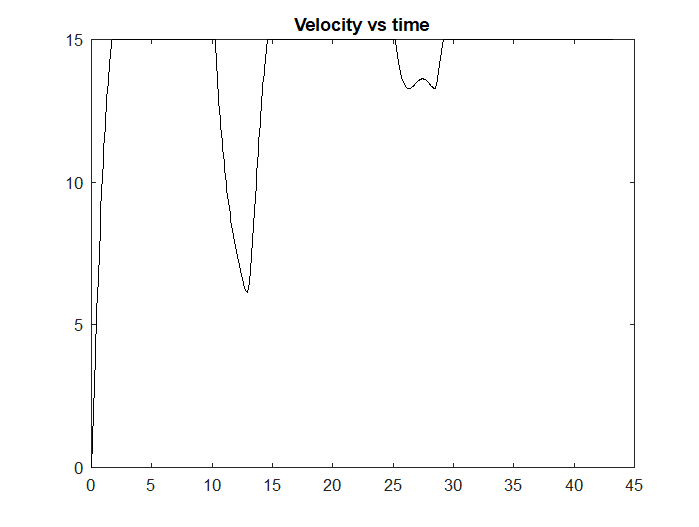
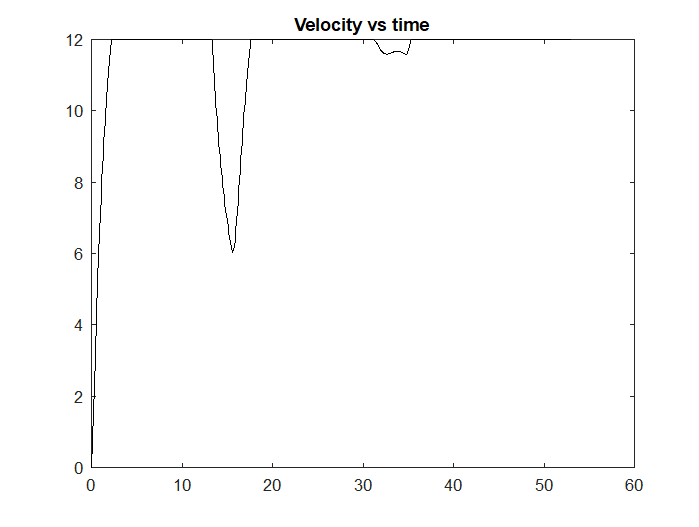
Fixed some pictures after changing Forward Acc Check to use horizontal force

diff --git a/Matlab Trajectory Generation/ForwardAccCheck.m b/Matlab Trajectory Generation/ForwardAccCheck.m
@@ -1,11 +1,11 @@
 function [vprofile] = ForwardAccCheck(vmax,veff,fc,r,dr)
-%FORWARDACCCHECK This function will run through all of the vmax values, and
-%will then go through and will accellerate the craft from a starting
-%velocity of 0 and will create an velocity profile that attempts to
-%converge to the most efficient velocity using the maximum allowed
-%horizontal force as well as staying within the constraints of the
-%previously established maximum velocity at each of the points
-%
+% FORWARDACCCHECK This function will run through all of the vmax values, and
+% will then go through and will accellerate the craft from a starting
+% velocity of 0 and will create an velocity profile that attempts to
+% converge to the most efficient velocity using the maximum allowed
+% horizontal force as well as staying within the constraints of the
+% previously established maximum velocity at each of the points
+% 
 % Input:
 %   vmax: This is an array with all of the previously established maximum
 %   velocities along the pat
@@ -23,12 +23,15 @@ function [vprofile] = ForwardAccCheck(vmax,veff,fc,r,dr)
 %   vprofile: This is the tangential velocity profile for the multicopter
 %   to take over the path
 
-vprofile = zeros(size(vmax));
+g = 9.8;%m/s^2
 
+vprofile = zeros(size(vmax));
+fMaxHoriz = fc.thrust*cos(asin(fc.mass*g/fc.thrust))
+%fMaxHoriz = fc.thrust;
 %Iterate through all of the positions
 for k = 1:length(vmax)-1
     %calculate the maximum tangential accelleration possible at this point
-    amax = (sqrt(fc.thrust^2-(fc.mass*vprofile(k)^2/r(k))^2)-fc.cd*vprofile(k)^2*fc.density*fc.refarea/2 )/fc.mass;
+    amax = (sqrt(fMaxHoriz^2-(fc.mass*vprofile(k)^2/r(k))^2)-fc.cd*vprofile(k)^2*fc.density*fc.refarea/2 )/fc.mass;
     
     vnext = sqrt(vprofile(k).^2+2.*amax.*dr);
     %Check if either of the values are greater than the speed of greatest

diff --git a/Matlab Trajectory Generation/BackAccCheck.m b/Matlab Trajectory Generation/BackAccCheck.m
@@ -1,10 +1,10 @@
 function [vmaxOut] = BackAccCheck(vmaxIn,fc,dr)
-%BACACCCHECK This function will filter the max velocity profile backwards
+% BACACCCHECK This function will filter the max velocity profile backwards
 %   The goal of this function is to ensure that the vmax velocity profile
 %   for the multicopter never has a negative slope(acceleration), greater
 %   than air resistance is able to provide at that speed such that the
 %   multicopter will never be have to reverse thrust
-%
+% 
 % Input:
 %   vmaxIn:This is an array of the max allowable velocity values such that
 %   the mutlicopter has the capability to corner.
@@ -16,7 +16,7 @@ function [vmaxOut] = BackAccCheck(vmaxIn,fc,dr)
 %       -density: Density of air in kg/m^3
 %       -cd: Coefficient of drag for copter
 %       -refarea: Drag reference area
-%
+% 
 % Output
 %   vmaxOut:Array in the same form of vmaxIn after the filter has been run
 

diff --git a/Matlab Trajectory Generation/GetMaxVelocity.m b/Matlab Trajectory Generation/GetMaxVelocity.m
@@ -1,8 +1,8 @@
 function [vmax] = GetMaxVelocity(radCurvature,fc)
-%GETMAXVELOCITY This function will calculate the maximum velocity that the
-%UAV can fly such that the maximum force is still sufficient to provide the
+% GETMAXVELOCITY This function will calculate the maximum velocity that the
+% UAV can fly such that the maximum force is still sufficient to provide the
 % centripetal force required as a function of the curvature
-%
+% 
 % Input:
 %   radCurvature: array with the radius of curvature at each of the
 %       points parametrized by arc length
@@ -12,6 +12,10 @@ function [vmax] = GetMaxVelocity(radCurvature,fc)
 %       -density: Density of air in kg/m^3
 %       -cd: Coefficient of drag for copter
 %       -refarea: Drag reference area
+%
+% Output
+%   vmax: This is an array of the maximum velocities the drone can fly at
+%   based on turning at each point
 
 %Parameters
 g = 9.8;%m/s^2

diff --git a/Matlab Trajectory Generation/GetRadCurvature.m b/Matlab Trajectory Generation/GetRadCurvature.m
@@ -1,12 +1,12 @@
 function [radCurvature] = GetRadCurvature(pathPolys,arcParams)
-%GETRADCURVATURE This function will numerically calculate the radius of
-%curvature of the path at all of the given points, and will then output
-%that value
-%
+% GETRADCURVATURE This function will numerically calculate the radius of
+% curvature of the path at all of the given points, and will then output
+% that value
+% 
 % Inputs:
 %   pathPolys: parametric x and y piecewise polynomials for path
 %   arcParams: the parameter values for equal arc length
-%
+% 
 % Outputs: 
 %   radCurvature: Array of the radius of curvature(make sure it is the same length)
 

diff --git a/Matlab Trajectory Generation/testParametricSpline.m b/Matlab Trajectory Generation/testParametricSpline.m
@@ -15,7 +15,7 @@ controlPts = [x,y];
 
 waypoints = [0,0;200,200];
 
-veff = 15;
+veff = 12;
 
 %Flight Characteristics
 fc = struct;
